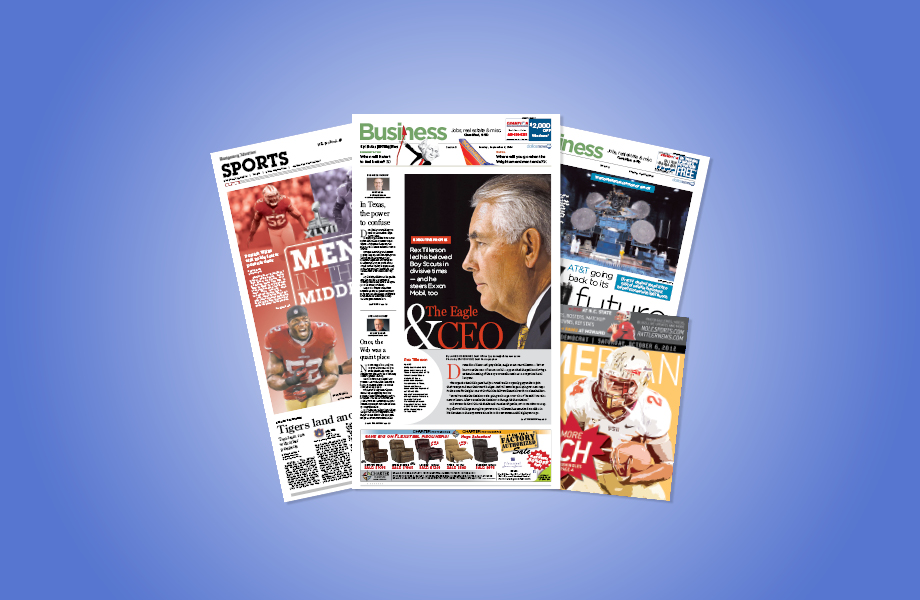
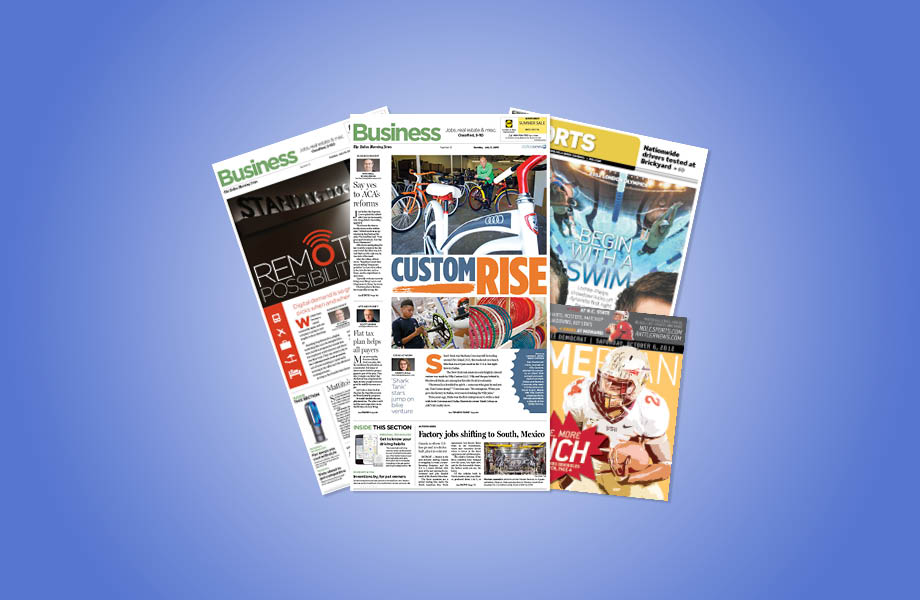
Newspaper/Promo img updates
etc: added link animations

Changed region(s): [[0.213, 0.18, 0.7913, 0.84]]

diff --git a/newspaper.html b/newspaper.html
@@ -46,78 +46,137 @@
          <!-- Work
         –––––––––––––––––––––––––––––––––––––––––––––––––– -->   
         <div class="main-content">
-            <div class="work">
-                <div class="container">
-                    <div class="row">
-                        <div class="six columns animated fadeInLeftBig" >
-                            <a  href="images/newspaper/image1.jpg" class="work-image">      
-                                <img src="images/newspaper/image1.jpg">
-                                <p>Super Bowl preview feature for the Montgomery Advertiser</p>
-                            </a>                                                  
-                        </div>     
-                        <div class="six columns animated fadeInRightBig">
-                            <a  href="images/newspaper/image2.jpg" class="work-image">       
-                                <img src="images/newspaper/image2.jpg">
-                                <p>Deadline illustration &amp; design for feature on speedster Billy Hamilton for the Pensacola News Journal</p>
-                            </a>                                                  
-                        </div>
-                    </div>
-                    <div class="row">
-                        <div class="six columns animated fadeInLeftBig">
-                            <a  href="images/newspaper/image3.jpg" class="work-image">       
-                                <img src="images/newspaper/image3.jpg">
-                                <p>Olympics preview for the Pensacola News Journal</p>
-                            </a>                                                  
-                        </div>     
-                        <div class="six columns animated fadeInRightBig">
-                            <a  href="images/newspaper/image4.jpg" class="work-image">       
-                                <img src="images/newspaper/image4.jpg">
-                                <p>Feature on Exxon Mobil CEO &amp; former Boy Scouts of America President Rex Tillerson for The Dallas Morning News</p>
-                            </a>                                                  
-                        </div>
-                    </div>
-                    <div class="row">
-                        <div class="six columns animated fadeInLeftBig">
-                            <a  href="images/newspaper/image5.jpg" class="work-image">       
-                                <img src="images/newspaper/image5.jpg">
-                                <p>Business design on the future of AT&amp;T in space for The Dallas Morning News</p>
-                            </a>                                                  
-                        </div>     
-                        <div class="six columns animated fadeInRightBig">
-                            <a  href="images/newspaper/image6.jpg" class="work-image">       
-                                <img src="images/newspaper/image6.jpg">
-                                <p>Deadline illustration and design in The Dallas Morning News for Tim Cowlishaw column about former Ranger Josh Hamilton and his (ultimate) return to Texas.</p>
-                            </a>                                                  
-                        </div>
-                    </div>
-                    <div class="row">
-                        <div class="six columns animated fadeInLeftBig">
-                            <a  href="images/newspaper/image7.jpg" class="work-image">       
-                                <img src="images/newspaper/image7.jpg">
-                                <p>Feature design for The Dallas Morning News</p>
-                            </a>                                                  
-                        </div>     
-                        <div class="six columns animated fadeInRightBig">
-                            <a  href="images/newspaper/image8.jpg" class="work-image">       
-                                <img src="images/newspaper/image8.jpg">
-                                <p>Cover for The Daily Toreador following the firing of Pat Knight, son of legendary coach Bob Knight | First Place, Page one design: Broadsheet format, 2011 CSPA Gold Circle Awards for Newspapers</p>
-                            </a>                                                  
-                        </div>
-                    </div>
-                    <div class="row" id="work-nav">
-                        <div class="twelve columns animated fadeUpBottomBig">
-                            <nav>
-                                <ul>
-                                    <label>Other Work</label>                                    
-                                    
-                                    <li ><a href="logo.html" class="button">Logo Design</a></li>
-                                    <li><a href="promo.html" class="button">Promo Design</a></li>
-                                </ul>
-                            </nav>
-                        </div> 
-                    </div>
-                </div>                
-            </div>            
+          <div class="work">
+            <div class="container">
+              <div class="row">
+                <div class="six columns animated fadeInLeftBig" >
+                  <a  href="images/newspaper/TDMN1.jpg" class="work-image">      
+                    <img src="images/newspaper/TDMN1.jpg" alt="Business cover for The Dallas Morning News featuring Villy Custom">
+                    <p>Business cover for The Dallas Morning News featuring Villy Custom of ABC's Shark Tank fame.</p>
+                  </a>                                                  
+                </div>     
+                <div class="six columns animated fadeInRightBig">
+                  <a  href="images/newspaper/TDMN2.jpg" class="work-image">       
+                    <img src="images/newspaper/TDMN2.jpg" alt="Business cover for The Dallas Morning News featuring Standing Dog Interactive">
+                    <p>Business cover for The Dallas Morning News featuring Standing Dog Interactive.</p>
+                  </a>                                                  
+                </div>
+              </div>
+              <div class="row">
+                <div class="six columns animated fadeInLeftBig" >
+                  <a  href="images/newspaper/TDMN4.jpg" class="work-image">      
+                    <img src="images/newspaper/TDMN4.jpg" alt="Sports cover for The Dallas Morning News featuring Olympian Katie Uhlaender">
+                    <p>Sports cover for The Dallas Morning News featuring Olympian Katie Uhlaender.</p>
+                  </a>                                                  
+                </div>     
+                <div class="six columns animated fadeInRightBig">
+                  <a  href="images/newspaper/TDMN5.jpg" class="work-image">       
+                    <img src="images/newspaper/TDMN5.jpg" alt="Business cover for The Dallas Morning News featuring Sq1">
+                    <p>Business cover for The Dallas Morning News featuring Sq1.</p>
+                  </a>                                                  
+                </div>
+              </div>
+              <div class="row">
+                <div class="six columns animated fadeInLeftBig" >
+                  <a  href="images/newspaper/TDMN7.jpg" class="work-image">      
+                    <img src="images/newspaper/TDMN7.jpg" alt="Business Cover for The Dallas Morning News featuring Exxon Mobil CEO & former Boy Scouts of America president Rex Tillerson">
+                    <p>Business cover for The Dallas Morning News featuring Exxon Mobil CEO &amp; former Boy Scouts of America president Rex Tillerson.</p>
+                  </a>                                                  
+                </div>     
+                <div class="six columns animated fadeInRightBig">
+                  <a  href="images/newspaper/TDMN8.jpg" class="work-image">       
+                    <img src="images/newspaper/TDMN8.jpg" alt="Arts &amp; Life cover for The Dallas Morning News.">
+                    <p>Arts &amp; Life cover for The Dallas Morning News.</p>
+                  </a>                                                  
+                </div>
+              </div>
+              <div class="row">
+                <div class="six columns animated fadeInLeftBig" >
+                  <a  href="images/newspaper/DT.jpg" class="work-image">      
+                    <img src="images/newspaper/DT.jpg" alt="Pat Knight fired cover">
+                    <p>Firing of Texas Tech basketball coach Pat Knight -- First Place, Page one design: Broadsheet format, 2011 CSPA Gold Circle Awards for Newspapers.</p>
+                  </a>                                                  
+                </div>     
+                <div class="six columns animated fadeInRightBig">
+                  <a  href="images/newspaper/DSN1.jpg" class="work-image">       
+                    <img src="images/newspaper/DSN1.jpg" alt="Michael Phelps and Ryan Lochte">
+                    <p>Pensacola News Journal sports cover on one of the most-anticipated matchups of the 2012 Olympics Games. </p>
+                  </a>                                                  
+                </div>
+              </div>
+              
+              <div class="row">
+                <div class="six columns animated fadeInLeftBig" >
+                  <a  href="images/newspaper/DSN2.jpg" class="work-image">      
+                    <img src="images/newspaper/DSN2.jpg" alt="Justion Gatlin cover">
+                    <p>Pensacola News Journal feature on local product Justin Gatlin trying to restore his place in Olympic lore.</p>
+                  </a>                                                  
+                </div>     
+                <div class="six columns animated fadeInRightBig">
+                  <a  href="images/newspaper/DSN3.jpg" class="work-image">       
+                    <img src="images/newspaper/DSN3.jpg" alt="Patrick Willis and Ray Lewis Super Bowl XLVII preview">
+                    <p>Montgomery Advertiser Super Bowl XLVII cover featuring 49ers' Patrick Willis and Ravens' Ray Lewis.</p>
+                  </a>                                                  
+                </div>
+              </div>
+              <div class="row">
+                <div class="six columns animated fadeInLeftBig" >
+                  <a  href="images/newspaper/DSN4.jpg" class="work-image">      
+                    <img src="images/newspaper/DSN4.jpg" alt="Navistar LPGA Classic">
+                    <p>Montgomery Advertiser Navistar LPGA Classic special section cover featuring Lexi Thompson.</p>
+                  </a>                                                  
+                </div>     
+                <div class="six columns animated fadeInRightBig">
+                  <a  href="images/newspaper/DSN5.jpg" class="work-image">       
+                    <img src="images/newspaper/DSN5.jpg" alt="Billy Hamilton, Billy Blaze">
+                    <p>Pensacola News Journal feature on speedster Billy Hamilton of Blue Wahoos and Cincinnati Reds fame.</p>
+                  </a>                                                  
+                </div>
+              </div>
+              <div class="row">
+                <div class="six columns animated fadeInLeftBig" >
+                  <a  href="images/newspaper/DSN6.jpg" class="work-image">      
+                    <img src="images/newspaper/DSN6.jpg" alt="Billy Hamilton PNJ sports cover">
+                    <p>Pensacola News Journal daily sports cover after Billy Hamilton's record-breaking night.</p>
+                  </a>                                                  
+                </div>     
+                <div class="six columns animated fadeInRightBig">
+                  <a  href="images/newspaper/DSN7.jpg" class="work-image">       
+                    <img src="images/newspaper/DSN7.jpg" alt="Billy Hamilton PNJ 1A">
+                    <p>MPensacola News Journal 1A cover after Billy Hamilton's record-breaking night.</p>
+                  </a>                                                  
+                </div>
+              </div>
+              <div class="row">
+                <div class="six columns animated fadeInLeftBig" >
+                  <a  href="images/newspaper/DSN8.jpg" class="work-image">      
+                    <img src="images/newspaper/DSN8.jpg" alt="Michael Phelps Olympics cover">
+                    <p>Daily sports cover for the Tallahassee Democrat following another Michael Phelps gold medal.</p>
+                  </a>                                                  
+                </div>     
+                <div class="six columns animated fadeInRightBig">
+                  <a  href="images/newspaper/DSN10.jpg" class="work-image">      
+                    <img src="images/newspaper/DSN10.jpg" alt="Florida State football cover">
+                    <p>Illustration/cover design for Tallahassee Democrat football section.</p>
+                  </a>                                                  
+                </div>
+              </div>
+              <div class="row">
+                <div class="six columns animated fadeInLeftBig" >
+                  <a  href="images/newspaper/DSN11.jpg" class="work-image">      
+                    <img src="images/newspaper/DSN11.jpg" alt="All-area team">
+                    <p>Special All-Area team spread for Pensacola News Journal.</p>
+                  </a>                                                  
+                </div>     
+<!--                <div class="six columns animated fadeInRightBig">
+                  <a  href="images/newspaper/TDMN2.jpg" class="work-image">       
+                    <img src="images/newspaper/TDMN2.jpg">
+                    <p>Deadline illustration &amp; design for feature on speedster Billy Hamilton for the Pensacola News Journal</p>
+                  </a>                                                  
+                </div>-->
+              </div>         
+            </div>                
+          </div>            
         </div>        
 
          <!-- Footer

diff --git a/css/main.css b/css/main.css
@@ -16,6 +16,7 @@ a {
     color: #8DC63F;
     text-transform: uppercase;
     text-decoration: none;
+    transition: all .3s ease-in-out;
 }
 
 .selected {
@@ -267,6 +268,7 @@ input[type="reset"]:hover {
 /*    opacity: .9;*/
     -webkit-filter: grayscale(100%);
     filter: grayscale(100%);
+    transition: all .3s ease-in-out;
 }
 
 #footer a img:hover {
